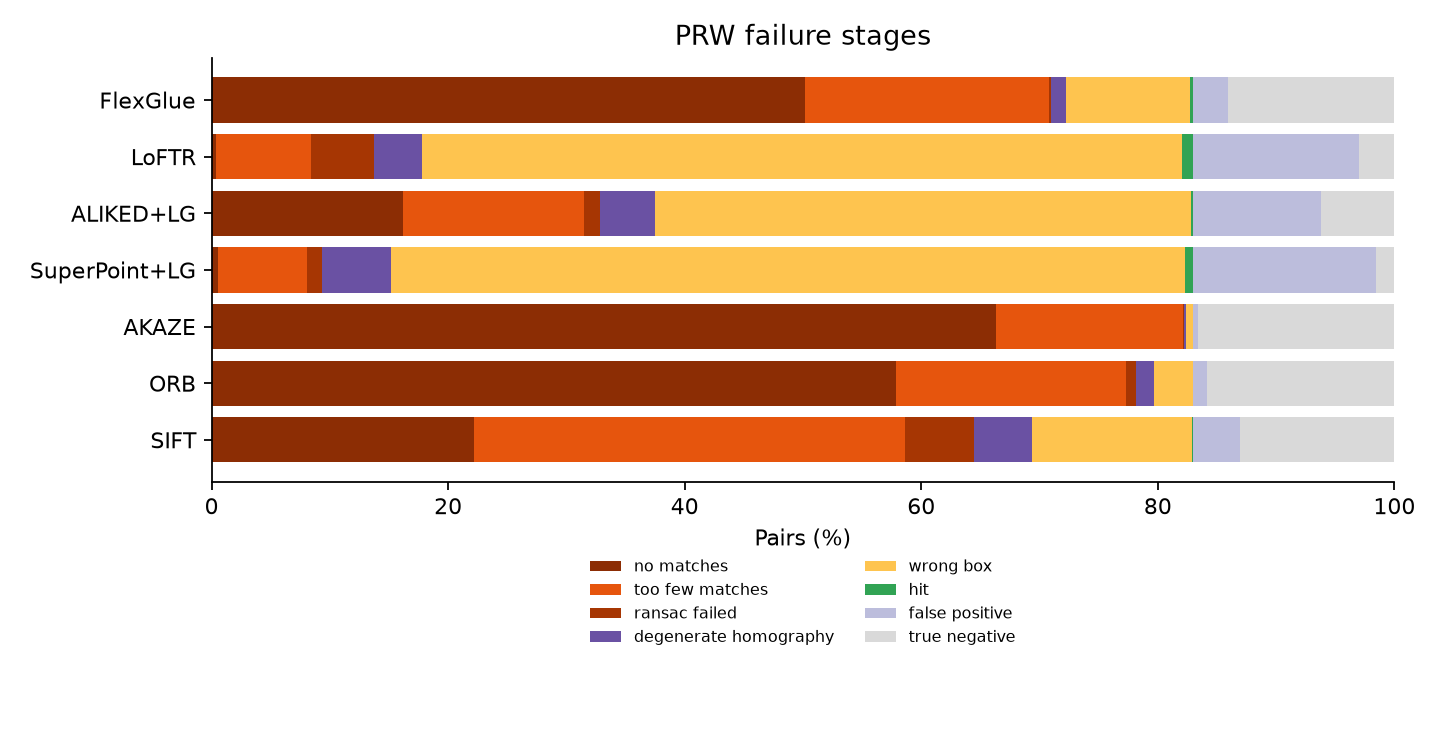
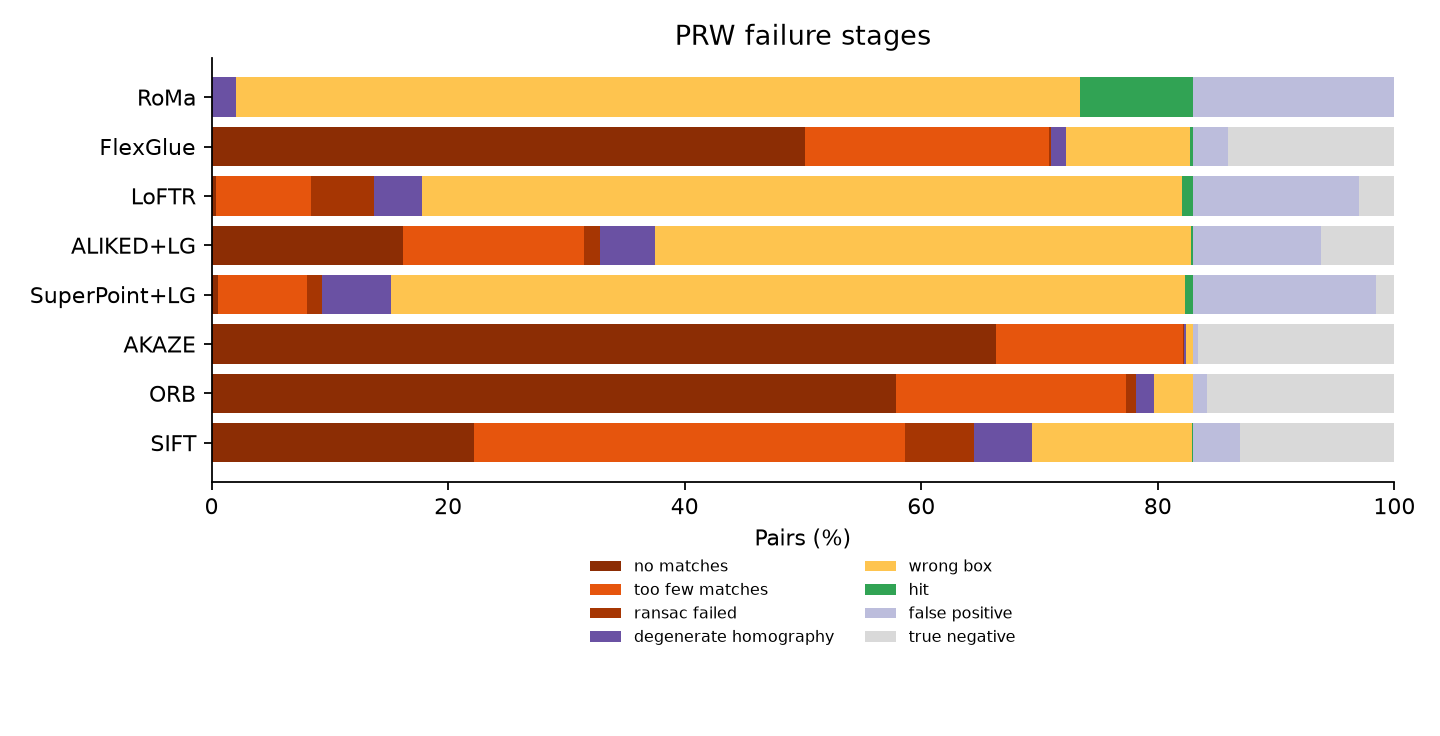
feat: add PRW to the dataset matrix and stage figures
The dataset matrix now carries a PRW AP@0.5 column from the 200-query
runs, and the PRW stage breakdown includes RoMa so the false-positive
story is visible next to the classical and sparse matchers.

Both scripts merge the three PRW result files rather than assuming a
single combined report.

Changed region(s): [[0.0312, 0.0938, 0.9688, 0.5938], [0.0938, 0.5938, 0.125, 0.625]]

diff --git a/scripts/plot_dataset_summary.py b/scripts/plot_dataset_summary.py
@@ -65,6 +65,13 @@ def main(argv: Sequence[str] | None = None) -> int:
     rpc = read_payload(Path("outputs/rpc/results.json"))
     hpatches = read_payload(Path("outputs/hpatches/results.json"))
     hpatches.update(read_payload(Path("outputs/hpatches-roma-2048/results.json")))
+    prw: dict[str, dict[str, object]] = {}
+    for path in (
+        Path("outputs/prw-q200/results.json"),
+        Path("outputs/prw-q200-learned/results.json"),
+        Path("outputs/prw-q200-roma/results.json"),
+    ):
+        prw.update(read_payload(path))
 
     plot_models(
         flickr,
@@ -87,7 +94,7 @@ def main(argv: Sequence[str] | None = None) -> int:
         "HPatches: matcher validation",
         args.output / "hpatches_models.png",
     )
-    plot_matrix(flickr, rpc, hpatches, args.output / "dataset_matrix.png")
+    plot_matrix(flickr, rpc, hpatches, prw, args.output / "dataset_matrix.png")
 
     flickr_rows, _ = load_rows(
         Path("outputs/flickrlogos32/results.json"),
@@ -240,6 +247,7 @@ def plot_matrix(
     flickr: Mapping[str, Mapping[str, object]],
     rpc: Mapping[str, Mapping[str, object]],
     hpatches: Mapping[str, Mapping[str, object]],
+    prw: Mapping[str, Mapping[str, object]],
     path: Path,
 ) -> None:
     """Plot a model x dataset primary-metric heatmap.
@@ -248,6 +256,7 @@ def plot_matrix(
         flickr: Flickr reports.
         rpc: RPC reports.
         hpatches: HPatches reports.
+        prw: PRW reports.
         path: Output path.
     """
     columns = [
@@ -263,9 +272,13 @@ def plot_matrix(
             "HPatches HEA@3",
             {model: float(row.get("hea3", 0.0)) for model, row in hpatches.items()},
         ),
+        (
+            "PRW AP@0.5 (200 q)",
+            {model: float(row.get("ap50", 0.0)) for model, row in prw.items()},
+        ),
     ]
     models = sorted(
-        set(flickr) | set(rpc) | set(hpatches),
+        set(flickr) | set(rpc) | set(hpatches) | set(prw),
         key=lambda model: (
             -float(flickr.get(model, {}).get("ap50", 0.0)),
             PRETTY.get(model, model),
@@ -274,7 +287,7 @@ def plot_matrix(
     matrix = np.asarray(
         [[values.get(model, np.nan) for _, values in columns] for model in models]
     )
-    fig, ax = plt.subplots(figsize=(5.6, 4.4))
+    fig, ax = plt.subplots(figsize=(6.6, 4.4))
     image = ax.imshow(matrix, cmap="Blues", vmin=0, vmax=0.7, aspect="auto")
     ax.set_xticks(range(len(columns)))
     ax.set_xticklabels([label for label, _ in columns], rotation=15)

diff --git a/scripts/plot_prw_analysis.py b/scripts/plot_prw_analysis.py
@@ -39,6 +39,7 @@ PRETTY = {
     "aliked_lightglue": "ALIKED+LG",
     "loftr": "LoFTR",
     "flexglue": "FlexGlue",
+    "roma": "RoMa",
 }
 COLORS = {
     "no_matches": "#8c2d04",
@@ -134,6 +135,7 @@ def load_reports() -> dict[str, dict[str, object]]:
     for path in (
         Path("outputs/prw-q200/results.json"),
         Path("outputs/prw-q200-learned/results.json"),
+        Path("outputs/prw-q200-roma/results.json"),
     ):
         if not path.exists():
             continue
